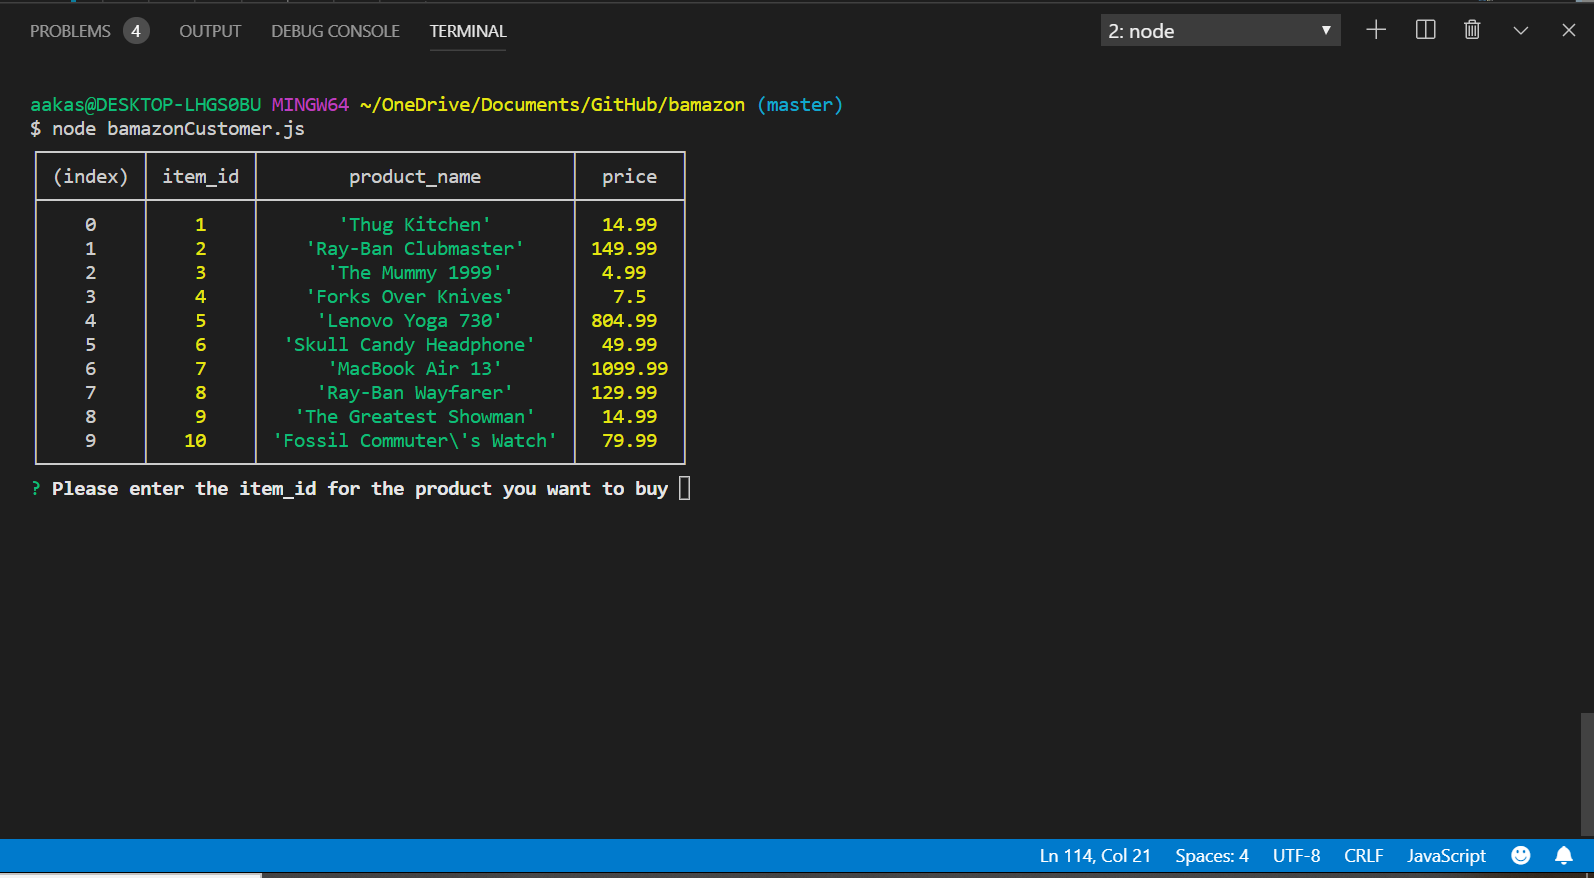
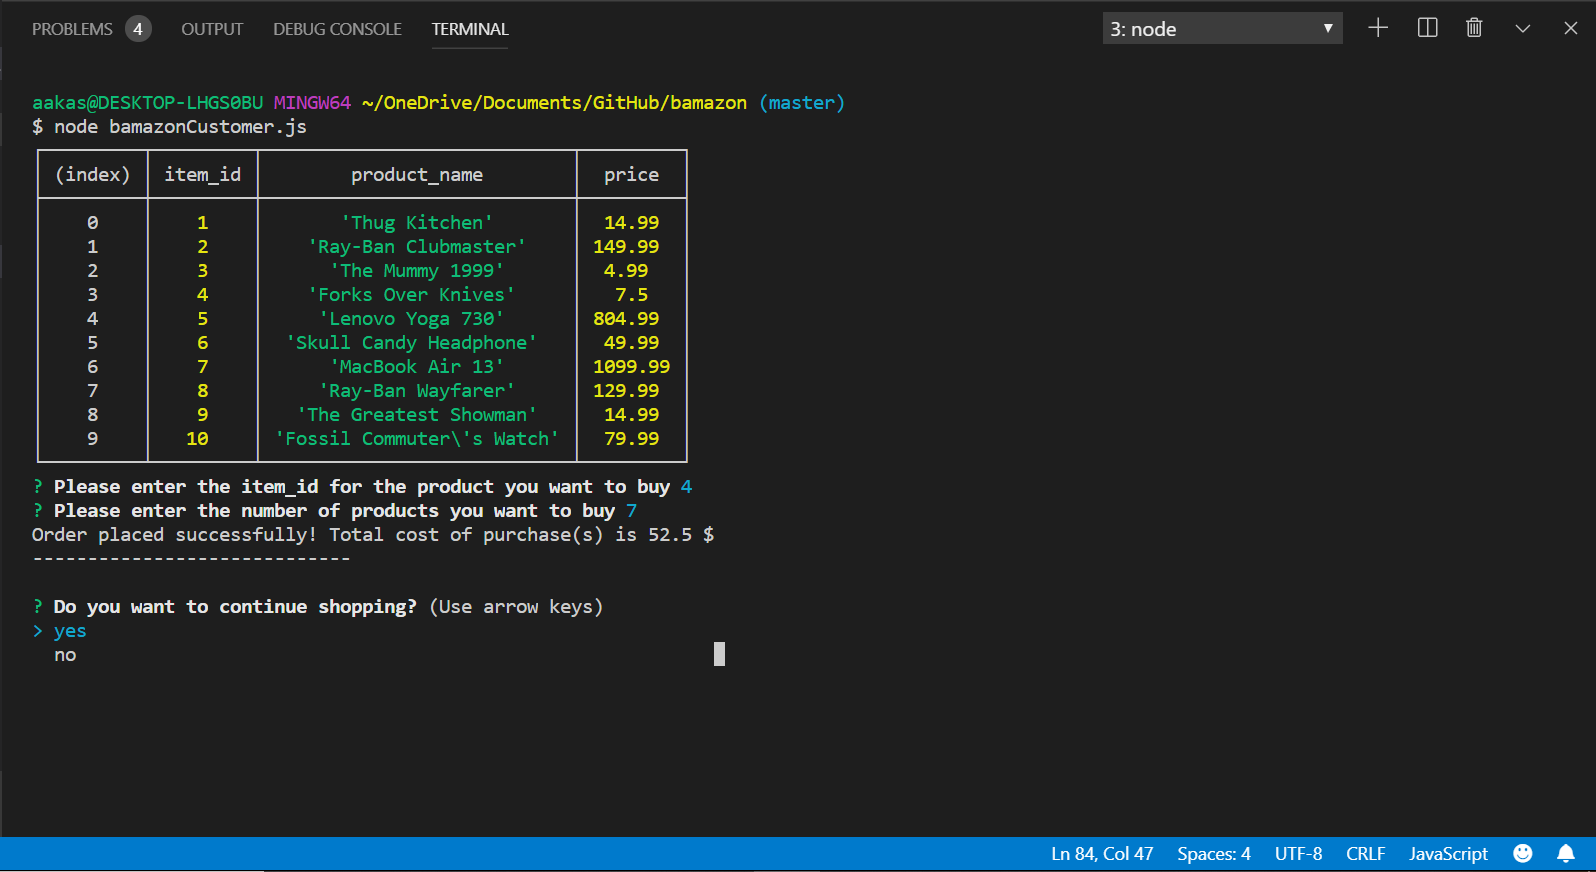
Readme file now has description on how the app works with images. Rn description is only for a customer point of view. Still needs to write and add how manger will mange the inventory.

diff --git a/README.md b/README.md
@@ -1,1 +1,38 @@
 # bamazon
+
+## Node.js & MySQL
+
+### Overview
+
+An Amazon-like storefront with MySQL. The app will take in orders from customers and deplete stock from the store's inventory.
+
+###  Customer View
+
+MySQL database called `bamazon` created with table inside called `products`. The products table has 10 items inserted with the following columns:
+
+* item_id (unique id for each product)
+
+* product_name (Name of product)
+
+* department
+
+* price (cost to customer)
+
+* Inventory (how much of the product is available in stores)
+
+Customer runs a Node app called `bamazonCustomer.js` which first displays all of the items available for sale minus the stock quantity. 
+
+<img src = "images/bamazonCustomer1.png" width = 700>
+
+The app then prompts users with two messages.
+
+* The first should ask them the ID of the product they would like to buy.
+* The second message should ask how many units of the product they would like to buy.
+
+Once the customer has placed the order, your application should check if your store has enough of the product to meet the customer's request.
+
+* If not, the app should log a phrase like `Insufficient quantity!`, and then prevent the order from going through.
+
+<img src = "images/bamzonCustomer2.png " width= 700>
+
+If the store _does_ have enough of the product, the customer's order is fulfilled and updates the SQL database to reflect the remaining quantity and shows the customer the total cost of their purchase(`shown in image 1`).
